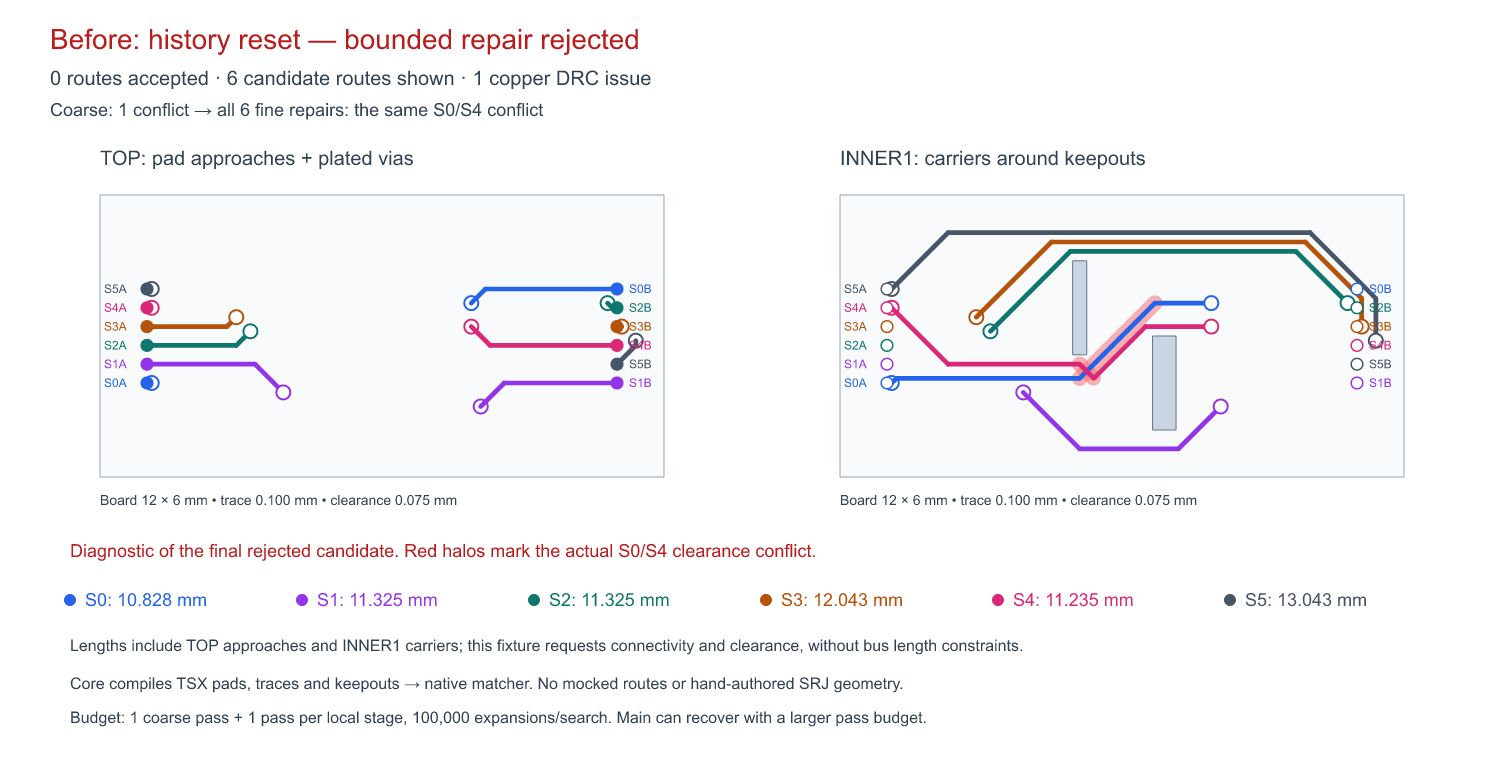
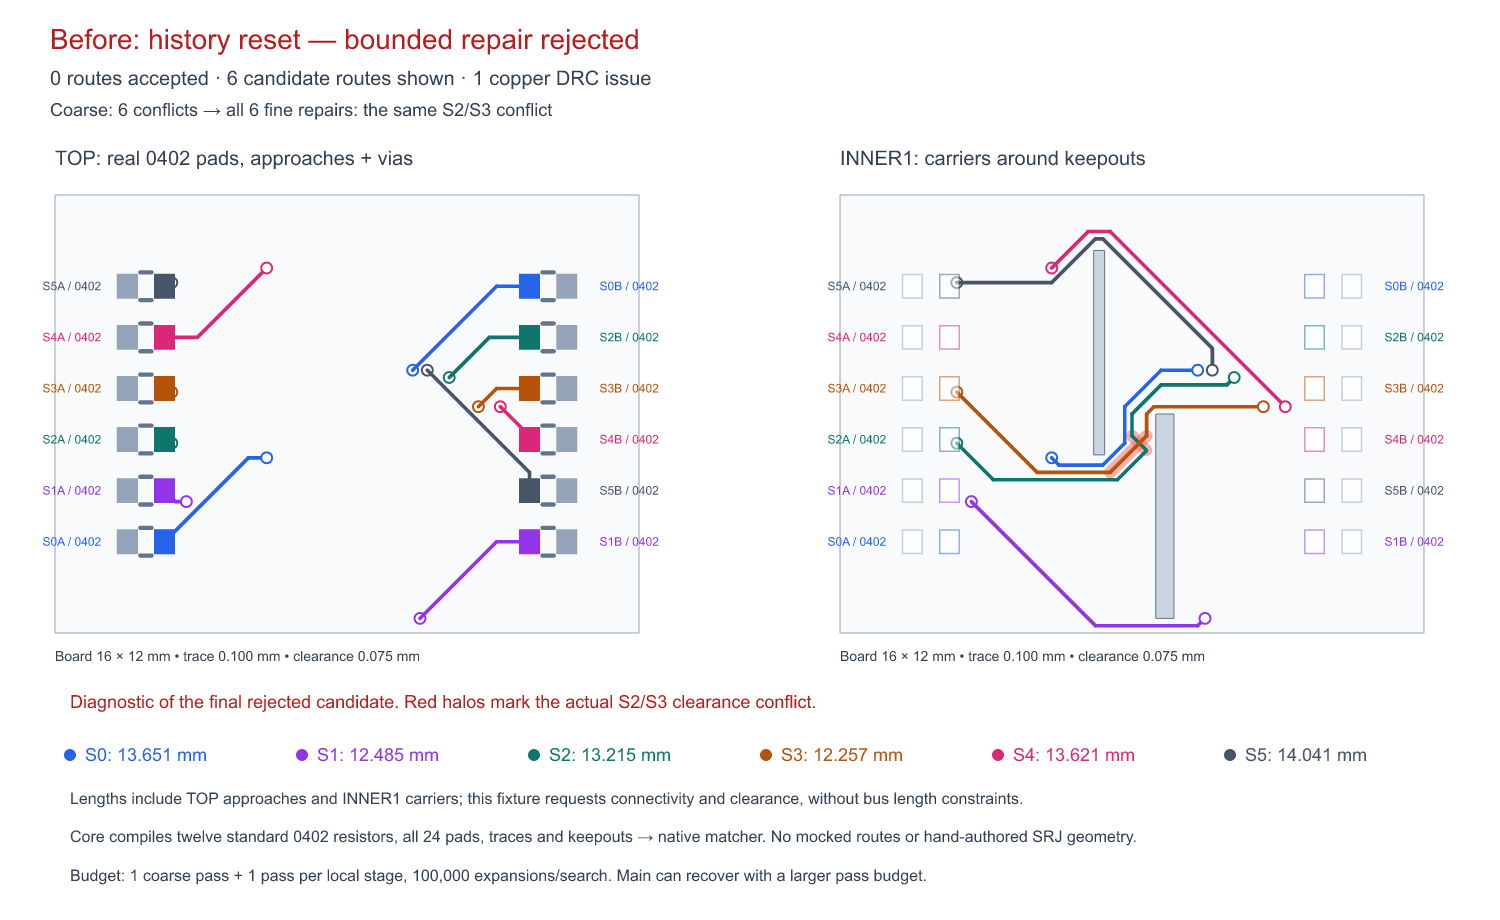
Reproduce congestion history loss with standard 0402 footprints

diff --git a/tests/fixtures/native-matching-history-snapshot.ts b/tests/fixtures/native-matching-history-snapshot.ts
@@ -8,12 +8,12 @@ import {
 
 type Fixture = Pick<
   Awaited<ReturnType<typeof compileNativeMatchingHistoryFixture>>,
-  "input" | "signalNames"
+  "input" | "circuitJson" | "signalNames"
 >
 type Result = ReturnType<typeof runNativeMatchingHistoryFixture>
 
 export function nativeMatchingHistorySvg(
-  { input, signalNames }: Fixture,
+  { input, circuitJson, signalNames }: Fixture,
   result: Result,
 ) {
   const accepted = result.traces !== null
@@ -22,7 +22,8 @@ export function nativeMatchingHistorySvg(
   if (
     !accepted &&
     (result.stages.length !== 7 ||
-      !result.stages.every((stage) => stage.collisions === 1) ||
+      result.stages[0].collisions !== 6 ||
+      !result.stages.slice(1).every((stage) => stage.collisions === 1) ||
       result.validation.issues.length !== 1 ||
       result.validation.issues[0].code !== "different-net-trace-clearance")
   )
@@ -56,11 +57,11 @@ export function nativeMatchingHistorySvg(
   ) =>
     `<text x="${x}" y="${y}" font-size="${size}" fill="${fill}">${value}</text>`
   const panel = (layer: string, originX: number) => {
-    const scale = 47,
+    const scale = 36.5,
       originY = 195
     const point = ({ x, y }: { x: number; y: number }) => ({
-      x: originX + (x + 6) * scale,
-      y: originY + (3 - y) * scale,
+      x: originX + (x + 8) * scale,
+      y: originY + (6 - y) * scale,
     })
     const line = (
       a: { x: number; y: number },
@@ -73,14 +74,36 @@ export function nativeMatchingHistorySvg(
         q = point(b)
       return `<line x1="${p.x}" y1="${p.y}" x2="${q.x}" y2="${q.y}" stroke="${stroke}" stroke-width="${width * scale}" stroke-linecap="round" ${extra}/>`
     }
-    const pads = input.connections
+    const pads = circuitJson
+      .filter((element) => element.type === "pcb_smtpad")
+      .map((pad) => {
+        if (pad.shape !== "rect") throw Error("Expected actual 0402 rectangles")
+        const connection = input.connections.find((connection) =>
+          connection.pointsToConnect.some(
+            (terminal) => terminal.pcb_port_id === pad.pcb_port_id,
+          ),
+        )
+        const p = point({ x: pad.x - pad.width / 2, y: pad.y + pad.height / 2 })
+        const stroke = connection ? color(connection.name) : "#94a3b8"
+        return `<rect x="${p.x}" y="${p.y}" width="${pad.width * scale}" height="${pad.height * scale}" fill="${layer === "top" ? stroke : "#fff"}" stroke="${stroke}" stroke-width="1.5" ${layer === "top" ? "" : 'opacity="0.5"'}/>`
+      })
+      .join("")
+    const padLabels = input.connections
       .flatMap((connection) =>
         connection.pointsToConnect.map((terminal, side) => {
           const p = point(terminal)
-          return `<circle cx="${p.x}" cy="${p.y}" r="${0.125 * scale}" fill="${layer === "top" ? color(connection.name) : "#fff"}" stroke="${color(connection.name)}" stroke-width="1.5"/>${text(p.x + (side ? 12 : -43), p.y + 4, `${signalNames[connection.name]}${side ? "B" : "A"}`, 12, color(connection.name))}`
+          return text(p.x + (side ? 70 : -122), p.y + 4, `${signalNames[connection.name]}${side ? "B" : "A"} / 0402`, 12, color(connection.name))
         }),
       )
       .join("")
+    const silkscreen = layer === "top"
+      ? circuitJson
+        .filter((element) => element.type === "pcb_silkscreen_path")
+        .map((path) => path.route.slice(1).map((terminal, index) =>
+          line(path.route[index], terminal, path.stroke_width, "#64748b"),
+        ).join(""))
+        .join("")
+      : ""
     const obstacles = input.obstacles
       .filter(
         (obstacle) =>
@@ -119,7 +142,7 @@ export function nativeMatchingHistorySvg(
           .join(""),
       )
       .join("")
-    return `${text(originX, 165, layer === "top" ? "TOP: pad approaches + plated vias" : "INNER1: carriers around keepouts", 20)}<rect x="${originX}" y="${originY}" width="${12 * scale}" height="${6 * scale}" fill="#f8fafc" stroke="#94a3b8"/>${obstacles}${halos}${routes}${pads}${text(originX, 505, "Board 12 × 6 mm • trace 0.100 mm • clearance 0.075 mm", 14)}`
+    return `${text(originX, 165, layer === "top" ? "TOP: real 0402 pads, approaches + vias" : "INNER1: carriers around keepouts", 20)}<rect x="${originX}" y="${originY}" width="${16 * scale}" height="${12 * scale}" fill="#f8fafc" stroke="#94a3b8"/>${obstacles}${halos}${routes}${pads}${silkscreen}${padLabels}${text(originX, 661, "Board 16 × 12 mm • trace 0.100 mm • clearance 0.075 mm", 14)}`
   }
   const label = accepted
     ? "After: history preserved — bounded repair accepted"
@@ -128,17 +151,17 @@ export function nativeMatchingHistorySvg(
     ? "6/6 routes accepted · 12 plated vias · 0 copper DRC issues"
     : "0 routes accepted · 6 candidate routes shown · 1 copper DRC issue"
   const stage = accepted
-    ? "Coarse: 1 conflict → first fine repair: 0 conflicts"
-    : "Coarse: 1 conflict → all 6 fine repairs: the same S0/S4 conflict"
+    ? "Coarse: 6 conflicts → first fine repair: 0 conflicts"
+    : "Coarse: 6 conflicts → all 6 fine repairs: the same S2/S3 conflict"
   const lengths = input.connections
     .map((connection, i) => {
       const measured = result.lengths.find(
         (value) => value.connectionName === connection.name,
       )!
-      return `<circle cx="${70 + i * 232}" cy="600" r="6" fill="${color(connection.name)}"/>${text(85 + i * 232, 606, `${signalNames[connection.name]}: ${measured.copperLengthMm.toFixed(3)} mm`, 18, color(connection.name))}`
+      return `<circle cx="${70 + i * 232}" cy="755" r="6" fill="${color(connection.name)}"/>${text(85 + i * 232, 761, `${signalNames[connection.name]}: ${measured.copperLengthMm.toFixed(3)} mm`, 18, color(connection.name))}`
     })
     .join("")
-  return `<svg xmlns="http://www.w3.org/2000/svg" width="1500" height="760" viewBox="0 0 1500 760"><title>${label}</title><rect width="1500" height="760" fill="#fff"/><g font-family="Arial, sans-serif">${text(50, 49, label, 28, accepted ? "#047857" : "#b91c1c")}${text(50, 85, status, 20)}${text(50, 116, stage, 18)}${panel("top", 100)}${panel("inner1", 840)}${text(70, 557, accepted ? "Real solver output: all endpoints connected and full-span via copper validated." : "Diagnostic of the final rejected candidate. Red halos mark the actual S0/S4 clearance conflict.", 18, accepted ? "#047857" : "#b91c1c")}${lengths}${text(70, 651, "Lengths include TOP approaches and INNER1 carriers; this fixture requests connectivity and clearance, without bus length constraints.", 16)}${text(70, 689, "Core compiles TSX pads, traces and keepouts → native matcher. No mocked routes or hand-authored SRJ geometry.", 16)}${text(70, 723, "Budget: 1 coarse pass + 1 pass per local stage, 100,000 expansions/search. Main can recover with a larger pass budget.", 16)}</g></svg>\n`
+  return `<svg xmlns="http://www.w3.org/2000/svg" width="1500" height="920" viewBox="0 0 1500 920"><title>${label}</title><rect width="1500" height="920" fill="#fff"/><g font-family="Arial, sans-serif">${text(50, 49, label, 28, accepted ? "#047857" : "#b91c1c")}${text(50, 85, status, 20)}${text(50, 116, stage, 18)}${panel("top", 55)}${panel("inner1", 840)}${text(70, 708, accepted ? "Real solver output: all endpoints connected and full-span via copper validated." : "Diagnostic of the final rejected candidate. Red halos mark the actual S2/S3 clearance conflict.", 18, accepted ? "#047857" : "#b91c1c")}${lengths}${text(70, 804, "Lengths include TOP approaches and INNER1 carriers; this fixture requests connectivity and clearance, without bus length constraints.", 16)}${text(70, 842, "Core compiles twelve standard 0402 resistors, all 24 pads, traces and keepouts → native matcher. No mocked routes or hand-authored SRJ geometry.", 16)}${text(70, 881, "Budget: 1 coarse pass + 1 pass per local stage, 100,000 expansions/search. Main can recover with a larger pass budget.", 16)}</g></svg>\n`
 }
 
 export function nativeMatchingHistoryReport(

diff --git a/tests/fixtures/native-matching-history.tsx b/tests/fixtures/native-matching-history.tsx
@@ -9,12 +9,12 @@ import {
 import type { SimpleRouteJson, Trace } from "../../lib/types"
 
 const endpoints = [
-  [-1, 1],
-  [-0.6, -1],
-  [-0.2, 0.6],
-  [0.2, 0.2],
-  [0.6, -0.2],
-  [1, -0.6],
+  [-3.5, 3.5],
+  [-2.1, -3.5],
+  [-0.7, 2.1],
+  [0.7, 0.7],
+  [2.1, -0.7],
+  [3.5, -2.1],
 ] as const
 
 /** Six signals cross around two inner-layer keepouts. No saved routes or
@@ -22,8 +22,8 @@ const endpoints = [
 export default function NativeMatchingHistoryFixture() {
   return (
     <board
-      width={12}
-      height={6}
+      width={16}
+      height={12}
       layers={4}
       routingDisabled
       schematicDisabled
@@ -35,16 +35,13 @@ export default function NativeMatchingHistoryFixture() {
     >
       {endpoints.flatMap((ends, i) =>
         ends.map((y, side) => (
-          <React.Fragment key={`P${i}_${side}`}>
-            <chip
-              name={`P${i}_${side}`}
-              pcbX={side ? 5 : -5}
+          <React.Fragment key={`R${i}_${side}`}>
+            <resistor
+              name={`R${i}_${side}`}
+              resistance="10k"
+              footprint="0402"
+              pcbX={side ? 5.51 : -5.51}
               pcbY={y}
-              footprint={
-                <footprint>
-                  <smtpad portHints={["pin1"]} shape="circle" radius={0.125} />
-                </footprint>
-              }
             />
           </React.Fragment>
         )),
@@ -53,25 +50,25 @@ export default function NativeMatchingHistoryFixture() {
         <React.Fragment key={`S${i}`}>
           <trace
             name={`S${i}`}
-            from={`.P${i}_0 > .pin1`}
-            to={`.P${i}_1 > .pin1`}
+            from={`.R${i}_0 > .pin2`}
+            to={`.R${i}_1 > .pin1`}
           />
         </React.Fragment>
       ))}
       <keepout
         shape="rect"
         pcbX={-0.9}
-        pcbY={0.6}
+        pcbY={1.68}
         width={0.3}
-        height={2}
+        height={5.6}
         layers={["inner1"]}
       />
       <keepout
         shape="rect"
         pcbX={0.9}
-        pcbY={-1}
+        pcbY={-2.8}
         width={0.5}
-        height={2}
+        height={5.6}
         layers={["inner1"]}
       />
     </board>
@@ -108,8 +105,8 @@ export async function compileNativeMatchingHistoryFixture() {
 }
 
 export const nativeMatchingHistoryOptions = {
-  gridStep: 0.3,
-  fineGridStep: 0.1,
+  gridStep: 0.6,
+  fineGridStep: 0.2,
   // This is a bounded repair case: one pass per stage, with all six local
   // repair attempts available and a substantial real search budget.
   maxPasses: 1,

diff --git a/tests/native-matching-history-crossing.test.tsx b/tests/native-matching-history-crossing.test.tsx
@@ -16,9 +16,32 @@ test("bounded fine repair repeats the same real copper conflict after losing his
   expect(
     circuitJson.filter((element) => element.type.includes("error")),
   ).toEqual([])
+  const pads = circuitJson.filter(
+    (element) => element.type === "pcb_smtpad" && element.shape === "rect",
+  )
+  expect(pads).toHaveLength(24)
   expect(
-    circuitJson.filter((element) => element.type === "pcb_smtpad"),
+    circuitJson.filter((element) => element.type === "source_component"),
   ).toHaveLength(12)
+  // All actual 0402 terminals remain obstacles, including the unused pads.
+  for (const pad of pads) {
+    expect(pad.shape).toBe("rect")
+    expect(pad).toMatchObject({ width: 0.54, height: 0.64, layer: "top" })
+    expect(input.obstacles).toContainEqual(
+      expect.objectContaining({
+        center: { x: pad.x, y: pad.y },
+        width: 0.54,
+        height: 0.64,
+        layers: ["top"],
+      }),
+    )
+  }
+  for (const connection of input.connections) {
+    for (const terminal of connection.pointsToConnect) {
+      const pad = pads.find((pad) => pad.pcb_port_id === terminal.pcb_port_id)!
+      expect(terminal).toMatchObject({ x: pad.x, y: pad.y, layer: pad.layer })
+    }
+  }
   expect(
     circuitJson.filter((element) => element.type === "pcb_keepout"),
   ).toHaveLength(2)
@@ -43,7 +66,9 @@ test("bounded fine repair repeats the same real copper conflict after losing his
       (_, index) => `native_local_matching_${index}`,
     ),
   ])
-  expect(result.stages.every((state) => state.collisions === 1)).toBe(true)
+  expect(result.stages.map((state) => state.collisions)).toEqual([
+    6, 1, 1, 1, 1, 1, 1,
+  ])
   expect(result.validation.valid).toBe(false)
   expect(result.validation.issues).toHaveLength(1)
   const [conflict] = result.validation.issues
@@ -54,11 +79,11 @@ test("bounded fine repair repeats the same real copper conflict after losing his
       signalNames[conflict.connectionName!],
       signalNames[conflict.otherConnectionName!],
     ].sort(),
-  ).toEqual(["S0", "S4"])
+  ).toEqual(["S2", "S3"])
   expect(input).toEqual(before)
   // Compare the artifact to this actual compiled-and-solved fixture, so the
   // diagnostic geometry, labels and measured lengths cannot go stale.
-  const fixture = { input, signalNames }
+  const fixture = { input, circuitJson, signalNames }
   expect(nativeMatchingHistorySvg(fixture, result)).toBe(
     await Bun.file(
       new URL(

diff --git a/docs/repros/native-matching-history/README.md b/docs/repros/native-matching-history/README.md
@@ -1,15 +1,17 @@
 # Native matching congestion handoff
 
-The [TSX circuit](../../../tests/fixtures/native-matching-history.tsx) declares a 12 × 6 mm, four-layer board with twelve circular SMT pads, six crossing signals and two inner1 keepouts. Published Core 0.0.2125 compiles its Circuit JSON and routing input. The only adaptation is declaring inner1 as the native matcher's carrier layer; pad coordinates, ownership, obstacles, connections and board bounds come from Core.
+The [TSX circuit](../../../tests/fixtures/native-matching-history.tsx) declares a 16 × 12 mm, four-layer board with twelve standard 0402 resistors (all 24 actual rectangular SMT pads), six crossing signals and two inner1 keepouts. Published Core 0.0.2125 compiles its Circuit JSON and routing input. The only adaptation is declaring inner1 as the native matcher's carrier layer; pad coordinates, ownership, every unused pad obstacle, keepouts, connections and board bounds come from Core.
+
+The resistor rows use 1.4 mm spacing to avoid real 0402 courtyard overlap. Left pin2 and right pin1 are the signal terminals; the other twelve pads remain physical obstacles. The test checks every compiled 0.54 × 0.64 mm pad against its unmodified routing obstacle and derives signal endpoints from their actual port positions. Trace width is 0.10 mm, copper clearance 0.075 mm and through-via diameter 0.30 mm / 0.15 mm drill. The authored INNER1 keepouts are 5.6 mm tall; routing uses 0.60 mm coarse and 0.20 mm fine grids.
 
 Run `bun test tests/native-matching-history-crossing.test.tsx` for the end-to-end routing regression, or `bun scripts/snapshot-native-matching-history.ts` to regenerate the labeled SVG, PNG and numeric report for the current implementation. The regression compares its actual result's generated SVG and numeric report with the committed artifacts, preventing stale labels, geometry or measurements.
 
-The fixture uses a supported bounded configuration: one coarse pass, one pass in each local repair stage, and 100,000 search expansions per route. It provides no saved routes, mocks or manually constructed obstacles. On main, the coarse stage finds one physical S0/S4 copper conflict. Each of the six fine repair stages still has that conflict and the matcher returns `null`. The before panel shows the **final rejected candidate**, whose endpoints are connected but whose copper fails real DRC. It is a diagnostic, not a successfully routed board.
+The fixture uses a supported bounded configuration: one coarse pass, one pass in each local repair stage, and 100,000 search expansions per route. It provides no saved routes, mocks or manually constructed obstacles. On main, the coarse stage has six physical conflicts. The first fine stage reduces these to one S2/S3 copper clearance conflict, and each of the remaining five fine repair stages repeats that conflict and the matcher returns `null`. The before panel shows the **final rejected candidate**, whose endpoints are connected but whose copper fails real DRC. It is a diagnostic, not a successfully routed board.
 
-Preserving history lets the first fine stage remove the conflict. All six accepted traces connect their compiled endpoints; their twelve full-span plated vias and route copper pass the native DRC validator. The after panel is generated only after these checks pass. Colors identify S0–S5 on both layer panels, endpoint labels identify A/B pads, gray rectangles are the compiled keepouts, and red halos identify the actual conflicting copper. Lengths include both TOP approaches and inner1 carriers. No bus length constraints are requested in this connectivity/clearance fixture.
+Preserving history lets the first fine stage remove all six coarse conflicts. All six accepted traces connect their compiled endpoints; their twelve full-span plated vias and route copper pass the native DRC validator. The after panel is generated only after these checks pass. Colors identify S0–S5 on both layer panels, endpoint labels identify A/B resistor terminals, colored rectangles show the selected real pads, pale gray rectangles show the actual unused pads, and larger gray rectangles are the compiled keepouts. Red halos identify the actual conflicting copper. Lengths include both TOP approaches and inner1 carriers. No bus length constraints are requested in this connectivity/clearance fixture.
 
-This demonstrates a failed bounded repair and repeated conflict after each history reset. Increasing main's global or local pass budget to two allows it to recover; this is not evidence that the default matching settings inevitably fail. The original AM3352 board and the separate eleven-sample benchmark remain independent validation work.
+This demonstrates a failed bounded repair and repeated conflict after each history reset. This fixture intentionally bounds each repair stage to one pass; it is not evidence that the default matching settings inevitably fail. The original AM3352 board and the separate eleven-sample benchmark remain independent validation work.
 
 Core's published package imports several runtime packages without declaring them as dependencies. The pinned development dependencies supply those imports and align Circuit JSON with Core's schema. The existing fanout solver stays pinned to its original algorithm version. A behavior-neutral `ReturnType<typeof routeAlternateSignalDogbones>` annotation makes `initialSignalDogbones` declarations portable when Core introduces another autorouter version; no routing logic changes in the reproduction.
 
-![Before: final rejected candidate with S0/S4 clearance conflict](before.png)
+![Before: final rejected candidate with S2/S3 clearance conflict](before.png)
